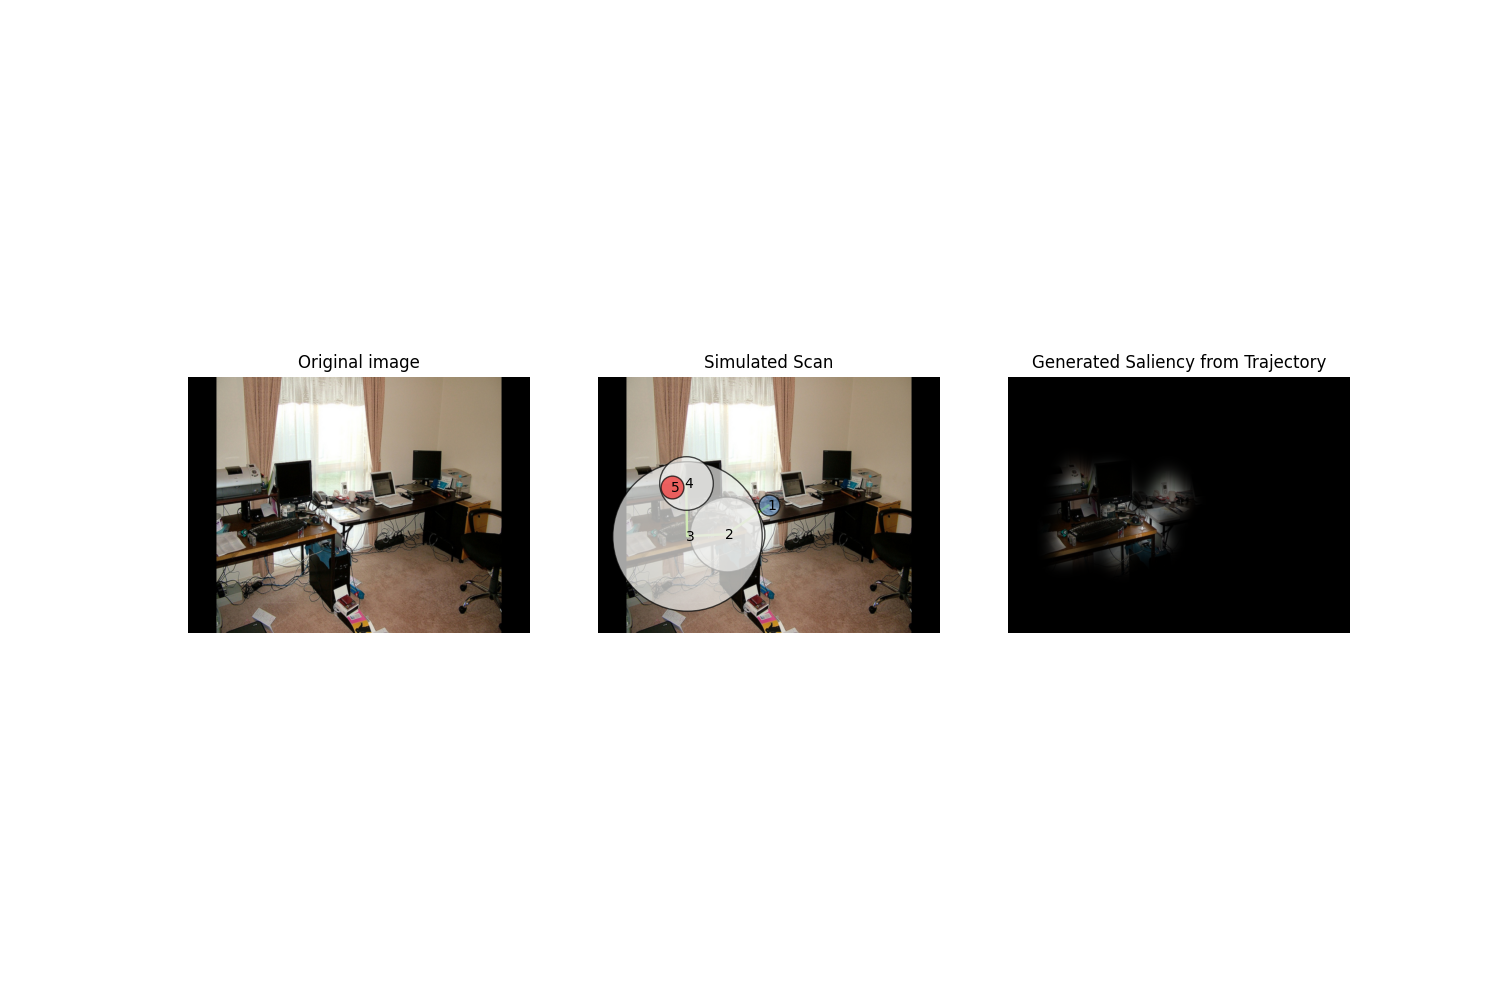
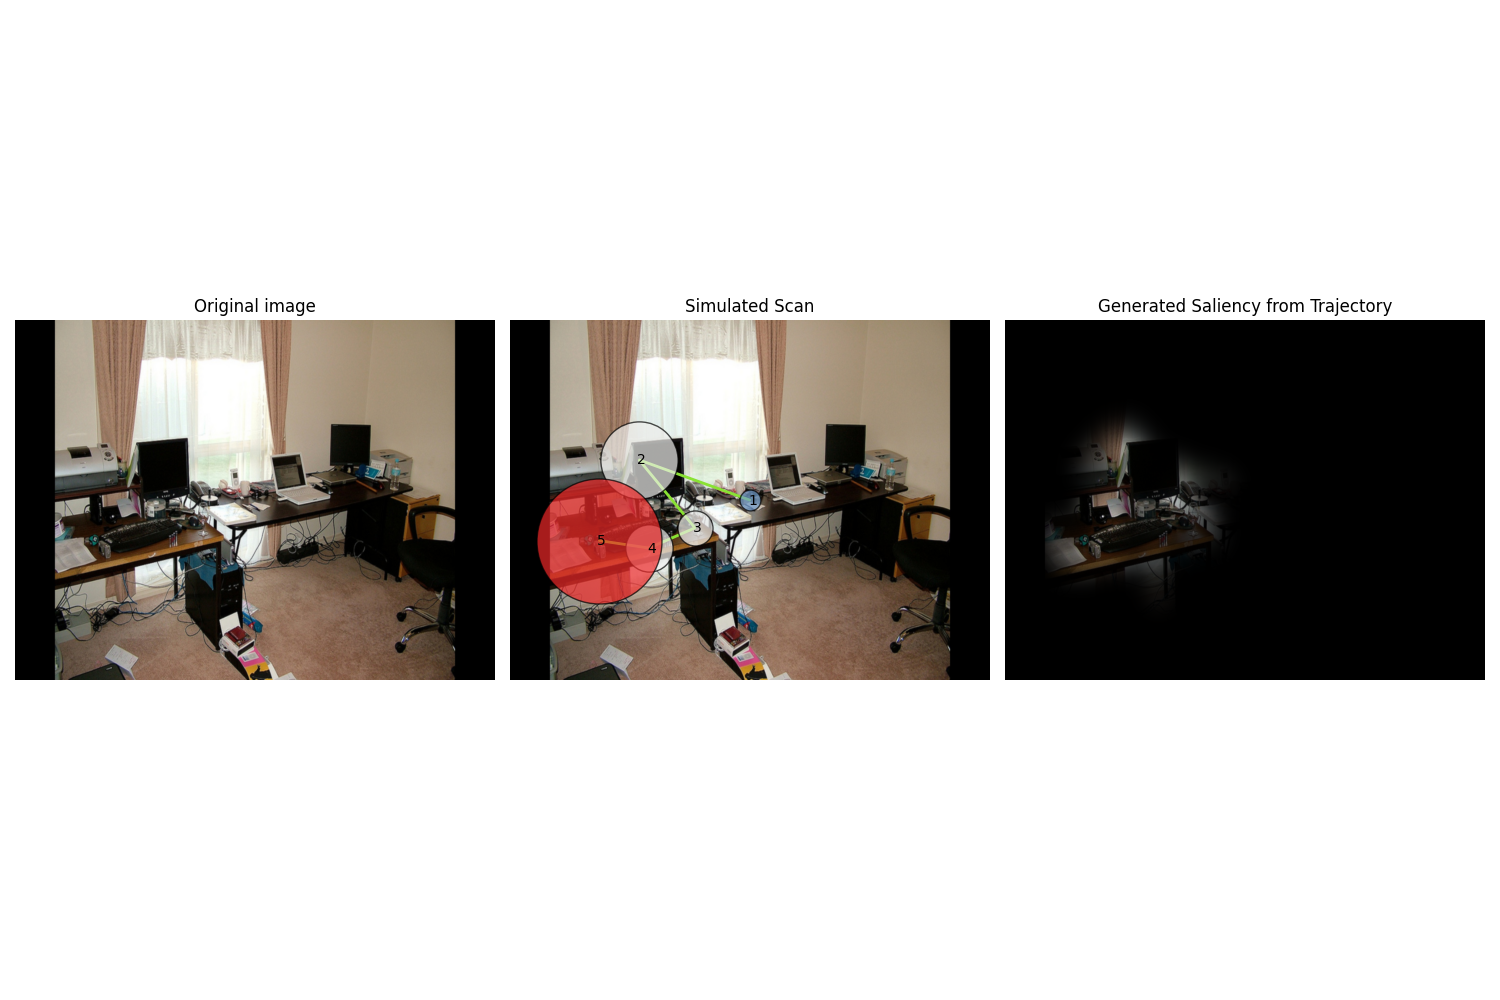
change of plotting and new simulation img

Changed region(s): [[0.0, 0.279, 1.0, 0.682]]

diff --git a/plotting.py b/plotting.py
@@ -5,7 +5,8 @@ import torch
 from vis import compute_density_image, draw_scanpath
 
 def plot_trajectory_on_image(image, trajectory, output_path):
-    trajectory = np.array(trajectory)  # Converte la traiettoria in array NumPy
+
+    trajectory = np.array(trajectory)  
     plt.imshow(image, cmap="gray")
     plt.scatter(trajectory[:, 0], trajectory[:, 1], c="red", s=5, alpha=0.6, label="Gaze Trajectory")
     plt.legend()
@@ -14,18 +15,18 @@ def plot_trajectory_on_image(image, trajectory, output_path):
     plt.close()
 
 def plot_gaze_direction(image, trajectory, output_path):
-    trajectory = np.array(trajectory)  # Converti la traiettoria in array NumPy
+    trajectory = np.array(trajectory)  
     plt.imshow(image, cmap="gray")
     
-    # Coordinate di partenza e di arrivo
+
     start_x, start_y = trajectory[0]
     end_x, end_y = trajectory[-1]
     
-    # Calcola la differenza per determinare direzione e lunghezza
+    
     dx = end_x - start_x
     dy = end_y - start_y
     
-    # Traccia una freccia che indica la direzione
+    
     plt.arrow(
         start_x, start_y, dx, dy,
         color="red", width=0.5, head_width=5, head_length=5,
@@ -34,114 +35,23 @@ def plot_gaze_direction(image, trajectory, output_path):
     
     plt.legend()
     plt.title("Gaze direction")
-    plt.savefig(output_path)  # Salva l'immagine nel percorso specificato
+    plt.savefig(output_path)  
     plt.close()
 
 def plot_gaze_with_steps(image, trajectory, step_interval, output_path):
-    trajectory = np.array(trajectory)  # Converti la traiettoria in array NumPy
+    trajectory = np.array(trajectory)  
     plt.imshow(image, cmap="gray")
     
-    # Plottare la traiettoria
+    
     plt.scatter(trajectory[:, 0], trajectory[:, 1], c="red", s=5, alpha=0.6, label="Gaze Trajectory")
-    # Aggiungere cerchi numerati ogni tot passi
+    
     for i in range(0, len(trajectory), step_interval):
         plt.scatter(trajectory[i, 0], trajectory[i, 1], c="blue", s=50, edgecolor="black")
         plt.text(trajectory[i, 0] + 5, trajectory[i, 1] - 5, str(i), color="white", fontsize=12)
     
     plt.legend()
     plt.title("Trajectory on image with jump numbers")
-    plt.savefig(output_path)  # Save the figure to the output path
-    plt.close()
-
-def plot_saliency_and_potential_maps(saliency_map, potential_map, output_path):
-    
-    # Verifica le forme per assicurarti che siano 2D
-    print("Saliency map shape:", saliency_map.shape)  # Deve essere come (768, 1024)
-    print("Potential map shape:", potential_map.shape)  # Deve essere come (768, 1024)
-    print("Saliency map type:", saliency_map.dtype)
-    print("Potential map type:", potential_map.dtype)
-    # Traccia le mappe
-    plt.figure(figsize=(10, 5))
-
-    # Mappa di salienza
-    plt.subplot(1, 2, 1)
-    plt.imshow(saliency_map, cmap='hot', interpolation='bilinear')
-    plt.colorbar(label="Saliency Value")
-    plt.title("Saliency Map")
-
-    # Mappa di potenziale
-    plt.subplot(1, 2, 2)
-    plt.imshow(potential_map.detach(), cmap='hot', interpolation='bilinear')  # Usiamo .detach() per evitare il gradiente
-    plt.colorbar(label="Potential Value")
-    plt.title("Potential Map")
-
-    plt.tight_layout()
-    plt.savefig(output_path)  # Save the figure to the output path
-    plt.close()
-
-
-def plot_fixations_with_numbers(image, trajectory, num_steps, circle_radius, min_distance, output_path):
-    """
-    Plot the trajectory of fixations with numbered circles to simulate visual attention, 
-    avoiding overlap between circles and connecting the circles with red lines.
-    """
-    step_interval = len(trajectory) // num_steps
-    trajectory = np.array(trajectory)  # Convert trajectory to NumPy array
-    plt.imshow(image, cmap="gray")
-    
-    ax = plt.gca()  # Get the current axis
-    plotted_points = []  # List to track already plotted points
-    prev_point = None  # To track the previous point for drawing lines
-
-    # Draw circles along the trajectory
-    for i in range(num_steps):
-        idx = i * step_interval  # Index for each step
-        x, y = trajectory[idx]  # Inverti x e y qui
-        
-        overlapping_circles = []  # To store overlapping circles
-        for j, (py, px, pr) in enumerate(plotted_points):
-            distance = np.sqrt((x - px)**2 + (y - py)**2)
-            if distance < min_distance:  # If distance is less than min_distance, they overlap
-                overlapping_circles.append((j, py, px, pr))
-        
-        if not overlapping_circles:  # No overlaps
-            # Draw the circle
-            circle = patches.Circle((y, x), radius=circle_radius, facecolor='red', alpha=0.4, edgecolor='black', lw=2)  # Inverti x e y qui
-            ax.add_patch(circle)
-
-            # Add the number inside the circle
-            plt.text(y, x, str(i + 1), color="white", fontsize=12, ha='center', va='center', fontweight='bold')  # Inverti x e y qui
-
-            # Update plotted points
-            plotted_points.append((y, x, circle_radius))  # Inverti x e y qui
-            
-            # Draw the line connecting the previous circle
-            if prev_point:
-                plt.plot([prev_point[0], y], [prev_point[1], x], color='red', lw=1)  # Inverti x e y qui
-
-            prev_point = (y, x)
-        else:  # Handle overlaps
-            # Sort overlapping circles by radius (larger ones come first)
-            overlapping_circles.sort(key=lambda item: -item[3])
-
-            # Use the largest radius to determine the new circle's size
-            max_radius = overlapping_circles[0][3]
-            new_radius = max_radius * 1.2  # Scale the new circle's size
-            
-            # Draw a larger circle for the current number
-            larger_circle = patches.Circle((y, x), radius=new_radius, facecolor='orange', alpha=0.5, edgecolor='black', lw=2)  # Inverti x e y qui
-            ax.add_patch(larger_circle)
-
-            # Plot the smaller number inside the larger circle
-            plt.text(y, x, str(i + 1), color="white", fontsize=12, ha='center', va='center', fontweight='bold')  # Inverti x e y qui
-            
-            # Update plotted points with the new circle
-            plotted_points.append((y, x, new_radius))  # Inverti x e y qui
-
-    # Finalize the plot
-    plt.title("Simulation of fixations with numbering (without overlaps)")
-    plt.axis("off")
-    plt.savefig(output_path)  # Save the figure to the output path
+    plt.savefig(output_path)  
     plt.close()
 
 
@@ -152,18 +62,19 @@ def extract_fixations(trajectory, distance_threshold=5, time_per_step=40):
         if np.linalg.norm(np.array(trajectory[i]) - np.array(trajectory[i - 1])) < distance_threshold:
             current_fixation.append(trajectory[i])
         else:
-            # Calcola durata e aggiungi la fissazione
+            
             if len(current_fixation) > 1:
                 duration = len(current_fixation) * time_per_step
                 fixations.append((np.mean(current_fixation, axis=0), duration))
             current_fixation = [trajectory[i]]
 
-    # Aggiungi l'ultima fissazione
+    
     if len(current_fixation) > 1:
         duration = len(current_fixation) * time_per_step
         fixations.append((np.mean(current_fixation, axis=0), duration))
     
     return fixations
+
 def plot_fixations(img, fixations, trajectory):
     plt.imshow(img)
     for fixation, duration in fixations:
@@ -174,64 +85,16 @@ def plot_fixations(img, fixations, trajectory):
     plt.show()
 
 def analyze_saliency_continuity(saliency_map):
-    # Assicurati che sia 2D
+    
     saliency_map = saliency_map.squeeze()
 
-    # Visualizzazione della mappa di salienza
+    
     plt.figure(figsize=(6, 5))
     plt.imshow(saliency_map)
     plt.colorbar(label="Saliency Value")
     plt.title("Saliency Map")
     plt.show()
 
-    # Calcolo del gradiente
-    grad_x, grad_y = torch.gradient(saliency_map)
-
-    # Visualizzazione delle derivate
-    fig, axes = plt.subplots(1, 2, figsize=(12, 5))
-    im1 = axes[0].imshow(grad_x)
-    axes[0].set_title("Gradient along X")
-    fig.colorbar(im1, ax=axes[0], label="dSaliency/dX")
-
-    im2 = axes[1].imshow(grad_y)
-    axes[1].set_title("Gradient along Y")
-    fig.colorbar(im2, ax=axes[1], label="dSaliency/dY")
-
-    plt.show()
-
-    # Calcolo del gradiente totale
-    grad_total = torch.sqrt(grad_x**2 + grad_y**2)
-
-    # Visualizzazione del gradiente totale
-    plt.figure(figsize=(6, 5))
-    plt.imshow(grad_total)
-    plt.colorbar(label="Total Gradient")
-    plt.title("Total Gradient Map")
-    plt.show()
-
-    # Calcolo della seconda derivata (test di differenziabilità)
-    grad_x2, grad_y2 = torch.gradient(grad_x)
-    grad_xx2, grad_yy2 = torch.gradient(grad_y)
-
-    # Visualizzazione delle derivate seconde
-    fig, axes = plt.subplots(1, 2, figsize=(12, 5))
-    im1 = axes[0].imshow(grad_x2)
-    axes[0].set_title("Second Derivative along X")
-    fig.colorbar(im1, ax=axes[0], label="d²Saliency/dX²")
-
-    im2 = axes[1].imshow(grad_y2)
-    axes[1].set_title("Second Derivative along Y")
-    fig.colorbar(im2, ax=axes[1], label="d²Saliency/dY²")
-
-    plt.show()
-
-    # Istogramma dei valori di salienza
-    plt.figure(figsize=(6, 5))
-    plt.hist(saliency_map.flatten(), bins=50, color="blue", alpha=0.7)
-    plt.xlabel("Saliency Value")
-    plt.ylabel("Frequency")
-    plt.title("Saliency Value Distribution")
-    plt.show()
 
 def analyze_potential_continuity(potential_map):
     """
@@ -256,29 +119,6 @@ def analyze_potential_continuity(potential_map):
     plt.title("Potential Map")
     plt.show()
 
-    # Calcolo dei gradienti
-    grad_x, grad_y = torch.gradient(potential_map_detached)
-
-    # Visualizzazione dei gradienti
-    fig, axes = plt.subplots(1, 2, figsize=(12, 5))
-    im1 = axes[0].imshow(grad_x.numpy(), cmap="coolwarm")  # Convertiamo in NumPy per la visualizzazione
-    axes[0].set_title("Gradient along X")
-    fig.colorbar(im1, ax=axes[0], label="dPotential/dX")
-
-    im2 = axes[1].imshow(grad_y.numpy(), cmap="coolwarm")  # Convertiamo in NumPy per la visualizzazione
-    axes[1].set_title("Gradient along Y")  
-    fig.colorbar(im2, ax=axes[1], label="dPotential/dY")
-
-    plt.show()
-
-    # Istogramma della distribuzione dei valori del potenziale
-    plt.figure(figsize=(6, 5))
-    plt.hist(potential_map_detached.flatten().numpy(), bins=50, color="green", alpha=0.7)  # Convertiamo in NumPy
-    plt.xlabel("Potential Value")
-    plt.ylabel("Frequency")
-    plt.title("Potential Value Distribution")
-    plt.show()
-
 def save_and_plot_everything(img, img_path, output_dir, potential_map, saliency_map, mala_trajectory, fixations):
 
     fix_x, fix_y, fix_d = fixations[:, 0], fixations[:, 1], fixations[:, 2]
@@ -292,9 +132,8 @@ def save_and_plot_everything(img, img_path, output_dir, potential_map, saliency_
 
     plot_gaze_with_steps(img, mala_trajectory, 100, os.path.join(img_output_dir, 'gaze_steps.png'))
     plot_gaze_direction(img, mala_trajectory, os.path.join(img_output_dir, 'gaze_direction.png'))
-    #plot_fixations_with_numbers(img, mala_trajectory, 4, 20, 40, os.path.join(img_output_dir, 'fixations.png'))
     
-    fig = plt.figure(figsize=(15, 10))
+    fig = plt.figure(tight_layout=True, figsize=(15, 10))
     plt.subplot(1, 3, 1)
     plt.imshow(img)
     plt.axis("off")
